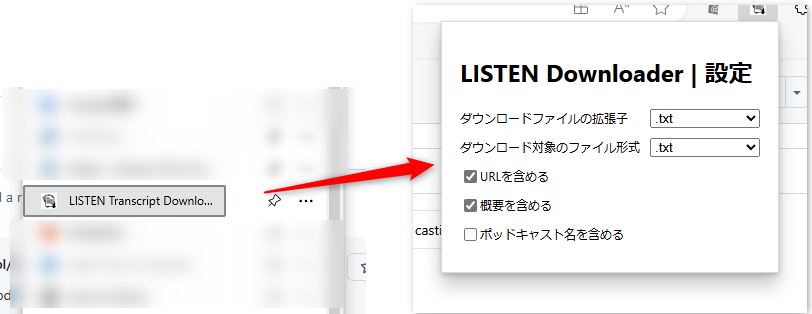
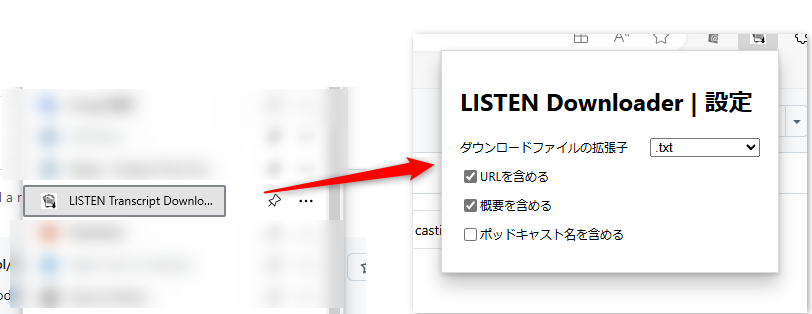
2.0 Released

diff --git a/README.md b/README.md
@@ -1,5 +1,7 @@
 # Chrome Extension: LISTEN Transcript Downloader
 
+[![Buy Me a Coffee](<https://img.shields.io/badge/Buy%20Me%20a%20Coffee-Support-yellow>)](https://buymeacoffee.com/TakamiChie)
+
 LISTEN 内の自分のポッドキャストページにおいて、文字起こしの一括ダウンロード機能を追加する Chrome 拡張です。
 
 ## 機能概要
@@ -20,23 +22,34 @@ AI エンジンによっては".txt"の時と".md"の時と扱いが異なりま
 
 ### 自分の配信する複数番組の音声をダウンロードする＆公開予約中の音声と公開済みの音声の音声を同時にダウンロードする
 
-チェックボックスの状態は、ファイルをダウンロードするまで記憶されています。
+チェックボックスの状態は、**ファイルをダウンロードするまで**記憶されています。
 
 途中で別番組を表示したり、タブを切り替えるなどして複数のポッドキャストや公開状態のエピソードを一括してダウンロードすることも可能です。
 
-![公開番組と公開予約番組の同時ダウンロード](README.res/pub&draft.gif)
-
-![複数チャンネルのダウンロード](README.res/multichannel.gif)
-
 まとめたファイルを AI に読み込ませるなど使用方法は色々お好きな方法をお試しください。
+
+## 話者別の音声文字起こしダウンロード
+
+Ver2.0より話者別の音声ダウンロード機能に対応しました(話者の区別があるのはVTTファイルのみですので、ダウンロードできるのもVTT形式のみです/拡張子はダウンロード時に変更できます)。
+
+ゲストの言葉だけをAIに読み込ませたいなどのときに使用してください。
 
 ## 使用方法
 
 1. Chrome 拡張機能としてプロジェクトを読み込み、インストールしてください。
 2. listen.style 内の対象ポッドキャストページを開くと、拡張機能が自動でチェックボックスとダウンロードボタンを挿入します。
-3. 各エピソードのチェックボックスの選択状態に応じた一括ダウンロード処理（別途実装済みの場合）が実行可能になります。
+3. 各エピソードのチェックボックスの選択状態に応じた一括ダウンロード処理が実行可能になります。
 
 # バージョンアップ履歴
+
+## 2.0
+
+- 個別エピソードページから、文字起こしを話者ごとのファイルに分けてダウンロードできるようになりました
+- 文字起こし関連の操作を、画面右上の「文字起こしメニュー」にまとめました
+- 設定画面のダウンロードファイル拡張子に「自動」を追加しました。「自動」では通常のダウンロードは `.txt`、話者別ダウンロードは `.vtt` になります
+- ダウンロードファイル名に使うエピソード情報の取得処理を改善しました
+  - 日付・概要欄・タイトルが取得できないことがあった問題を修正しました
+- システムのダークモード表示に対応しました
 
 ## 1.2
 
